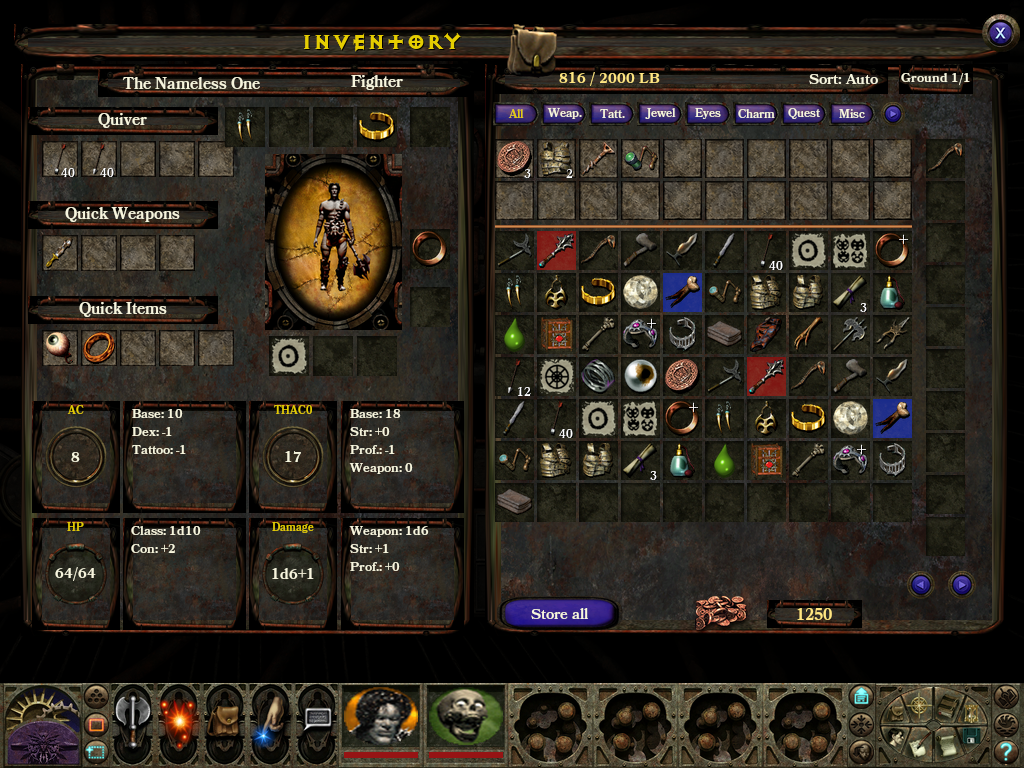
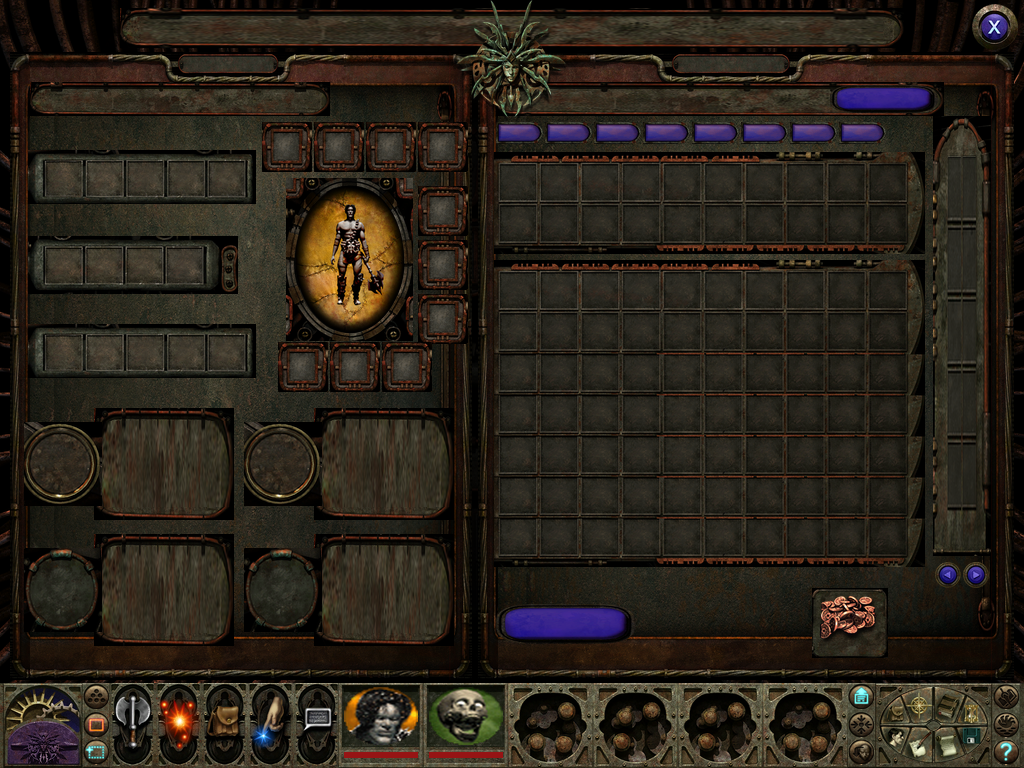
Design: variant F art guide (PTEE pieces: WIRESBG, LOADBG frames, rails, riveted frames, Lady keystone)

diff --git a/tools/build_assets.py b/tools/build_assets.py
@@ -982,7 +982,239 @@ varE = group("Variant E - LeUI layout with PTEE textures (John's pick)", [
 ], visible=True)
 varD["visible"] = False
 
-mockups = group("Party Stash mockup (PTEE style)", [varC, varB, varA, varD, varE])
+# ---- Variant F: art-direction guide (John, 2026-10-21): Variant E organisation, built only from PTEE pieces
+# (WIRESBG cables, LOADBG frames, vanilla rails/frames/discs/plates), Lady of Pain (JRNLOP) as top keystone.
+def nine(src, w, h, l, t, r, b, k=1.0):
+    """9-slice `src` (borders l,t,r,b in src px) into w x h; borders drawn at scale k."""
+    sw, sh = src.size
+    L_, T_, R_, B_ = (max(1, round(v * k)) for v in (l, t, r, b))
+    out = Image.new("RGBA", (w, h), (0, 0, 0, 0))
+    xs = [(0, l, 0, L_), (l, sw - r, L_, w - R_), (sw - r, sw, w - R_, w)]
+    ys = [(0, t, 0, T_), (t, sh - b, T_, h - B_), (sh - b, sh, h - B_, h)]
+    for sx0, sx1, dx0, dx1 in xs:
+        for sy0, sy1, dy0, dy1 in ys:
+            if dx1 > dx0 and dy1 > dy0:
+                out.alpha_composite(src.crop((sx0, sy0, sx1, sy1)).resize((dx1 - dx0, dy1 - dy0), Image.LANCZOS),
+                                    (dx0, dy0))
+    return out
+
+
+wires = mos("WIRESBG").resize((1366, 768), Image.LANCZOS)
+loadbg = mos("LOADBG").resize((1366, 768), Image.LANCZOS)
+lb = loadbg.crop((112, 12, 1240, 762))
+# replace the ladder side with the mirrored right border
+right_strip = lb.crop((lb.width - 40, 0, lb.width, lb.height)).transpose(Image.FLIP_LEFT_RIGHT)
+lb2 = lb.copy()
+lb2.paste(Image.new("RGBA", (100, lb.height), (0, 0, 0, 0)), (0, 0))
+lb2.paste(lb.crop((100, 0, 140, lb.height)).resize((60, lb.height)), (40, 0))  # stone filler over the ladder
+lb2.paste(right_strip, (0, 0))
+LB = lb2
+
+
+def F_frame(name, rect, k=0.5):
+    x, y, w, h = rect
+    annotate("Party Stash F", name, rect, "mock")
+    guide_box(*rect)
+    return layer(name, nine(LB, w, h, 40, 66, 40, 82, k), f"Fframe_{w}x{h}_{k}", x, y)
+
+
+def F_bar(name, rect):
+    """Rounded rusty bar (vanilla message bar), 3-slice horizontally."""
+    x, y, w, h = rect
+    src = bg_piece("Message bar")
+    annotate("Party Stash F", name, rect, "mock")
+    return layer(name, nine(src, w, h, 30, 12, 30, 12, h / src.height), f"Fbar_{w}x{h}", x, y)
+
+
+def F_slotframe(name, rect):
+    """Red riveted slot frame (vanilla earring frame), 9-slice."""
+    x, y, w, h = rect
+    src = bg_piece("Earring frame left")
+    return layer(name, nine(src, w, h, 22, 20, 22, 20, w / src.width), f"Fsf_{w}x{h}", x, y)
+
+
+def F_text(name, text, rect, **kw):
+    annotate("Party Stash F", name, rect, "text")
+    return text_layer(name, text, rect, **kw)
+
+
+def F_piece(name, piece, rect):
+    x, y, w, h = rect
+    annotate("Party Stash F", name, rect, "mock")
+    return layer(name, bg_piece(piece).resize((w, h), Image.LANCZOS), f"Fp_{piece}_{w}x{h}", x, y)
+
+
+F_items = []
+
+
+def F_icon(itm, a, **kw):
+    n = icon_in_slot(itm, a, **kw)
+    if n:
+        F_items.append(n)
+
+
+def F_rail(prefix, piece, slots_prefix, rect, title):
+    """A vanilla rail piece scaled into rect, slots placed on its baked cells, title above."""
+    x, y, w, h = rect
+    px, py, pw, ph = BG_PIECES[piece]
+    sx, sy = w / pw, h / ph
+    cells = [i["area"] for i in inv["items"] if i.get("slotinfo", "").split(".")[-1].startswith(slots_prefix)]
+    kids = [F_piece(f"{prefix} rail ({piece})", piece, rect)]
+    for n, a in enumerate(sorted(cells)):
+        ca = (x + round((a[0] - px) * sx), y + round((a[1] - py) * sy), round(a[2] * sx), round(a[3] * sy))
+        kids.append(bam_states(f"{prefix} slot {n}", "IVSLOT", n, ca, STATES_SLOT))
+    kids.append(F_text(f"{prefix} title", title, (x, y - 22, w, 20), style="label", point=15))
+    return group(prefix, kids), [k for k in kids if k.get("kind") == "slot"]
+
+
+# --- frame layout (menu px). Usable area 1024x683.
+LP = (10, 52, 462, 628)
+RP = (478, 52, 536, 628)
+F_bg = [layer("F WIRESBG (cables background, 1366x683 @ -171,0)", wires.crop((0, 0, 1366, ACTIONBAR_Y)),
+              "WIRESBG_1366x683", BG_OFF, 0)]
+
+# title band + Lady keystone + close
+F_top = [
+    F_bar("F title band", (120, 8, 784, 40)),
+    F_text("F title", "Inventory", (150, 8, 300, 40), style="label", point=22, font="EXOCET", color=COL["Y"],
+           shadow=True),
+]
+lady = mos("JRNLOP")
+lw = 112
+lh = round(lady.height * lw / lady.width)
+F_top.append(layer("F Lady of Pain keystone (JRNLOP)", lady.resize((lw, lh), Image.LANCZOS), f"lady_{lw}",
+                   512 - lw // 2, 0))
+annotate("Party Stash F", "F Lady of Pain keystone", (512 - lw // 2, 0, lw, lh), "mock")
+F_top.append(button("F close (XBUTT)", "XBUTT", (972, 4, 46, 46)))
+
+# left column
+F_left = [F_frame("F left frame (LOADBG 9-slice)", LP)]
+F_left.append(F_bar("F name/class bar", (30, 82, 300, 34)))
+F_left.append(F_text("F name", "The Nameless One", (30, 82, 170, 34), style="label", point=15))
+F_left.append(F_text("F class", "Fighter", (200, 82, 130, 34), style="label", point=15))
+rq, _ = F_rail("F quiver", "Personal items rail", "personal", (28, 150, 228, 54), "Quiver")
+rw, _ = F_rail("F quick weapons", "Weapons rail", "weapon", (28, 236, 210, 58), "Quick Weapons")
+ri, _ = F_rail("F quick items", "Personal items rail", "personal", (28, 324, 228, 54), "Quick Items")
+F_left += [rq, rw, ri]
+for i, itm in enumerate(["BOLT01", "BOLT03"]):
+    F_icon(itm, (28 + round((529 - 505 + i * 50) * 0.8), 150 + round((112 - 98) * 54 / 68), 34, 34), count=40)
+
+# paperdoll: reduced oval + 10 red riveted frames around it
+s = 0.52
+ov = bg_piece("Paperdoll oval")
+ovw, ovh = round(ov.width * s), round(ov.height * s)
+ox, oy = 286, 178
+dt = mos("IVPNOA").copy()
+dt.thumbnail((round(pa[2] * s), round(pa[3] * s)), Image.LANCZOS)
+F_doll = [layer("F oval frame (INVBG cut-out)", ov.resize((ovw, ovh), Image.LANCZOS), "ovalF", ox, oy),
+          layer("F paperdoll IVPNOA", dt, "dollF", ox + round((pa[0] - 154) * s) + (round(pa[2] * s) - dt.width) // 2,
+                oy + round((pa[1] - 78) * s) + (round(pa[3] * s) - dt.height) // 2)]
+fs, sl = 50, 34          # frame size, slot size inside
+off = (fs - sl) // 2
+body_pos = [("earringright0", 262, 122), ("earringleft0", 314, 122), ("chest0", 366, 122), ("wrist0", 418, 122),
+            ("hand0", 418, 186), ("ring0", 418, 240), ("ring1", 418, 294),
+            ("tattoo0", 278, 342), ("tattoo1", 330, 342), ("tattoo2", 382, 342)]
+F_body = []
+for i, (nm, x, y) in enumerate(body_pos):
+    F_body.append(group(f"F body {nm}", [
+        F_slotframe(f"F frame {nm}", (x, y, fs, fs)),
+        bam_states(f"F body slot {nm}", "IVSLOT", i, (x + off, y + off, sl, sl), STATES_SLOT),
+    ]))
+annotate("Party Stash F", "F body slots (10 riveted frames)", (262, 122, 206, 270), "slot")
+
+# stats: 2x2 blocks = disc piece + plate piece
+F_stats = []
+for nm, val, lines, piece, bx, by in (("AC", "8", ["Base: 10", "Dex: -1", "Tattoo: -1"], "AC disc", 24, 408),
+                                      ("THAC0", "17", ["Base: 18", "Prof.: -1", "Weapon: 0"], "AC disc", 244, 408),
+                                      ("HP", "64/64", ["Class: 1d10", "Con: +2"], "HP disc", 24, 534),
+                                      ("Damage", "1d6+1", ["Weapon: 1d6", "Str: +1"], "HP disc", 244, 534)):
+    disc = (bx, by + 14, 78, 84)
+    plate = (bx + 70, by, 140, 112)
+    F_stats.append(group(f"F stat {nm}", [
+        layer(f"F {nm} plate (message bar 9-slice)", nine(bg_piece("Message bar"), plate[2], plate[3], 30, 14, 30, 14,
+                                                          0.9), f"Fplate_{plate[2]}x{plate[3]}", plate[0], plate[1]),
+        F_piece(f"F {nm} disc ({piece})", piece, disc),
+        F_text(f"F {nm} value", val, (disc[0], disc[1] + 22, disc[2], 40), style="label", point=15),
+        F_text(f"F {nm} caption", nm, (disc[0], disc[1] - 14, disc[2], 14), style="normal", point=11,
+               color=COL["Y"], halign="center", valign="top"),
+        F_text(f"F {nm} detail", "\n".join(lines), (plate[0] + 18, plate[1] + 14, plate[2] - 26, plate[3] - 24),
+               style="normal", point=12, color=COL["B"]),
+    ]))
+
+# right column: header, tabs, grid from the backpack rail piece, ground column, bottom bar
+F_right = [F_frame("F right frame (LOADBG 9-slice)", RP)]
+F_right.append(F_bar("F header bar", (496, 82, 448, 34)))
+F_right.append(F_text("F stash weight", "816 / 2000 LB", (574, 82, 200, 34), style="normal", point=15,
+                      color=COL["$"], halign="left", valign="center"))
+F_right.append(button("F sort", "STRBUTT", (830, 85, 108, 28), "Sort: Auto", point=13))
+F_right.append(tab_strip("F", 496, 122, 48, 22, TABS_SHORT, active=0, gap=1, arrows=False))
+# backpack rail piece: rail part only (x 470..996 of the piece), 2 rows; stash = same rail stretched to 7 rows
+rx0, ry0 = 470, 500
+rail_src = invbg.crop((rx0 - BG_OFF, ry0, 996 - BG_OFF, 624))
+k = 0.82
+GXF, GYF = 494, 152
+bp_w, bp_h = round(rail_src.width * k), round(rail_src.height * k)
+F_right.append(layer("F backpack rail (vanilla piece x0.82)", rail_src.resize((bp_w, bp_h), Image.LANCZOS),
+                     "Fbprail", GXF, GYF))
+annotate("Party Stash F", "F backpack 2x10 (vanilla rail)", (GXF, GYF, bp_w, bp_h), "mock")
+top, row = rail_src.crop((0, 0, rail_src.width, 65)), rail_src.crop((0, 65, rail_src.width, 115))
+bot = rail_src.crop((0, 115, rail_src.width, rail_src.height))
+st = Image.new("RGBA", (rail_src.width, 65 + 6 * 50 + bot.height))
+st.paste(top, (0, 0))
+for r in range(6):
+    st.paste(row, (0, 65 + r * 50))
+st.paste(bot, (0, 65 + 300))
+SYF = GYF + bp_h + 6
+st_w, st_h = round(st.width * k), round(st.height * k)
+F_right.append(layer("F stash rail (vanilla rail stretched to 7 rows)", st.resize((st_w, st_h), Image.LANCZOS),
+                     "Fstrail", GXF, SYF))
+annotate("Party Stash F", "F stash 7x10 (vanilla rail x7)", (GXF, SYF, st_w, st_h), "mock")
+cx = [round((a[0] - rx0) * k) for a in sorted({i["area"][0]: i["area"] for i in inv["items"]
+                                                  if i.get("slotinfo", "").endswith(tuple(f"group{n}" for n in
+                                                                                         range(0, 20, 2)))}.values())]
+cell = round(43 * k)
+F_bp = [bam_states(f"F backpack slot r{r}c{c}", "SLOTITM", (r + c) % 5,
+                   (GXF + cx[c], GYF + round((15 + 50 * r) * k), cell, cell), STATES_SLOT)
+        for r in range(2) for c in range(10)]
+F_st = [bam_states(f"F stash slot r{r}c{c}", "IVSLOT", (r + c) % 10,
+                   (GXF + cx[c], SYF + round((15 + 50 * r) * k), cell, cell), STATES_SLOT)
+        for r in range(7) for c in range(10)]
+for i in range(64):
+    mk = STASH_MARKS.get(i % len(STASH_ITEMS))
+    F_icon(STASH_ITEMS[i % len(STASH_ITEMS)], (GXF + cx[i % 10], SYF + round((15 + 50 * (i // 10)) * k), cell, cell),
+           tint=mk[1] if mk and mk[0] == "tint" else None, count=mk[1] if mk and mk[0] == "count" else None,
+           plus=bool(mk and mk[0] == "plus"))
+F_right += [group("F backpack slots", F_bp), group("F stash slots", F_st)]
+# ground column: the vanilla arched ground panel, squeezed to one column
+gpx, gpy = GXF + bp_w + 8, 116
+gnd = bg_piece("Ground column")
+F_right.append(layer("F ground column (vanilla piece, 9-slice 1 col)", nine(gnd, 58, 440, 22, 70, 22, 20, 0.6),
+                     "Fground", gpx, gpy))
+annotate("Party Stash F", "F ground column", (gpx, gpy, 58, 440), "mock")
+F_right.append(group("F ground slots", [bam_states(f"F ground slot {r}", "IVSLOT", r, (gpx + 12, gpy + 50 + r * 42,
+                                                                                         34, 34), STATES_SLOT)
+                                        for r in range(9)]))
+F_right.append(button("F ground prev", "ARROBUTT", (gpx + 2, gpy + 446, 26, 26), seq=0))
+F_right.append(button("F ground next", "ARROBUTT", (gpx + 30, gpy + 446, 26, 26), seq=1))
+F_right.append(F_text("F ground page", "1/1", (gpx, gpy + 474, 58, 18), style="label", point=13))
+F_right.append(button("F store all", "STRBUTT", (496, 604, 140, 40), "Store all", point=15))
+F_right.append(F_piece("F gold box (vanilla piece)", "Gold box", (812, 588, 76, 70)))
+F_right.append(layer("F gold coins (ICGOLD)", mos("ICGOLD").resize((60, 50), Image.LANCZOS), "icgoldF", 820, 596))
+F_right.append(F_text("F party gold", "1250", (888, 606, 90, 30), style="gold", point=16))
+
+varF = group("Variant F - Art guide: E layout built from PTEE pieces (WIRESBG, LOADBG, rails, frames)", [
+    group("F background (cables)", F_bg),
+    group("F left column", F_left),
+    group("F paperdoll", F_doll),
+    group("F body slots", F_body),
+    group("F stats blocks", F_stats),
+    group("F right column", F_right),
+    group("F items (sample)", F_items),
+    group("F top (title, Lady keystone, close)", F_top),
+], visible=True)
+varE["visible"] = False
+
+mockups = group("Party Stash mockup (PTEE style)", [varC, varB, varA, varD, varE, varF])
 
 # ================================================================== 5. LIBRARY
 usage = {}
@@ -1105,7 +1337,7 @@ annotations = group("Annotations (element names, sizes, coords)", [
 
 # keep only the main guides (too many guides hide the art): frame, action bar, variant E panels
 GUIDES = {"h": {0, 768, ACTIONBAR_Y}, "v": {0, 1024}}
-for r in (title, left, right):
+for r in (LP, RP):
     guide_box(*r)
 root = [background, vanilla, actionbar, mockups, library, annotations]
 

diff --git a/tools/preview.py b/tools/preview.py
@@ -1,7 +1,7 @@
 """Composite the manifest's visible layers with PIL (quick check, independent of GIMP).
 
 Usage: python tools/preview.py out.png [--show "group name" ...] [--hide "group name" ...] [--wide]
---show/--hide override the visibility of nodes whose name starts with the given text. --wide renders 1366x768.
+--show/--hide override the visibility of nodes whose name starts with the given text. --wide renders 1366x768. --full also shows items, slot squares and texts.
 """
 import json
 import os
@@ -15,7 +15,7 @@ ROOT = os.path.normpath(os.path.join(os.path.dirname(__file__), ".."))
 def main():
     args = sys.argv[1:]
     out = args.pop(0)
-    show, hide, wide = [], [], False
+    show, hide, wide, full = [], [], False, False
     while args:
         a = args.pop(0)
         if a == "--show":
@@ -24,6 +24,8 @@ def main():
             hide.append(args.pop(0))
         elif a == "--wide":
             wide = True
+        elif a == "--full":
+            full = True
     m = json.load(open(os.path.join(ROOT, "design", "build", "manifest.json"), encoding="utf-8"))
     ox = 171 if wide else 0
     img = Image.new("RGBA", (m["width"] + 2 * ox, m["height"]), (0, 0, 0, 255))
@@ -33,6 +35,8 @@ def main():
             return True
         if any(n["name"].startswith(s) for s in hide):
             return False
+        if full and n.get("kind"):
+            return True  # items, slot squares and texts (hidden by default in the .xcf)
         return n["visible"]
 
     def walk(nodes):
